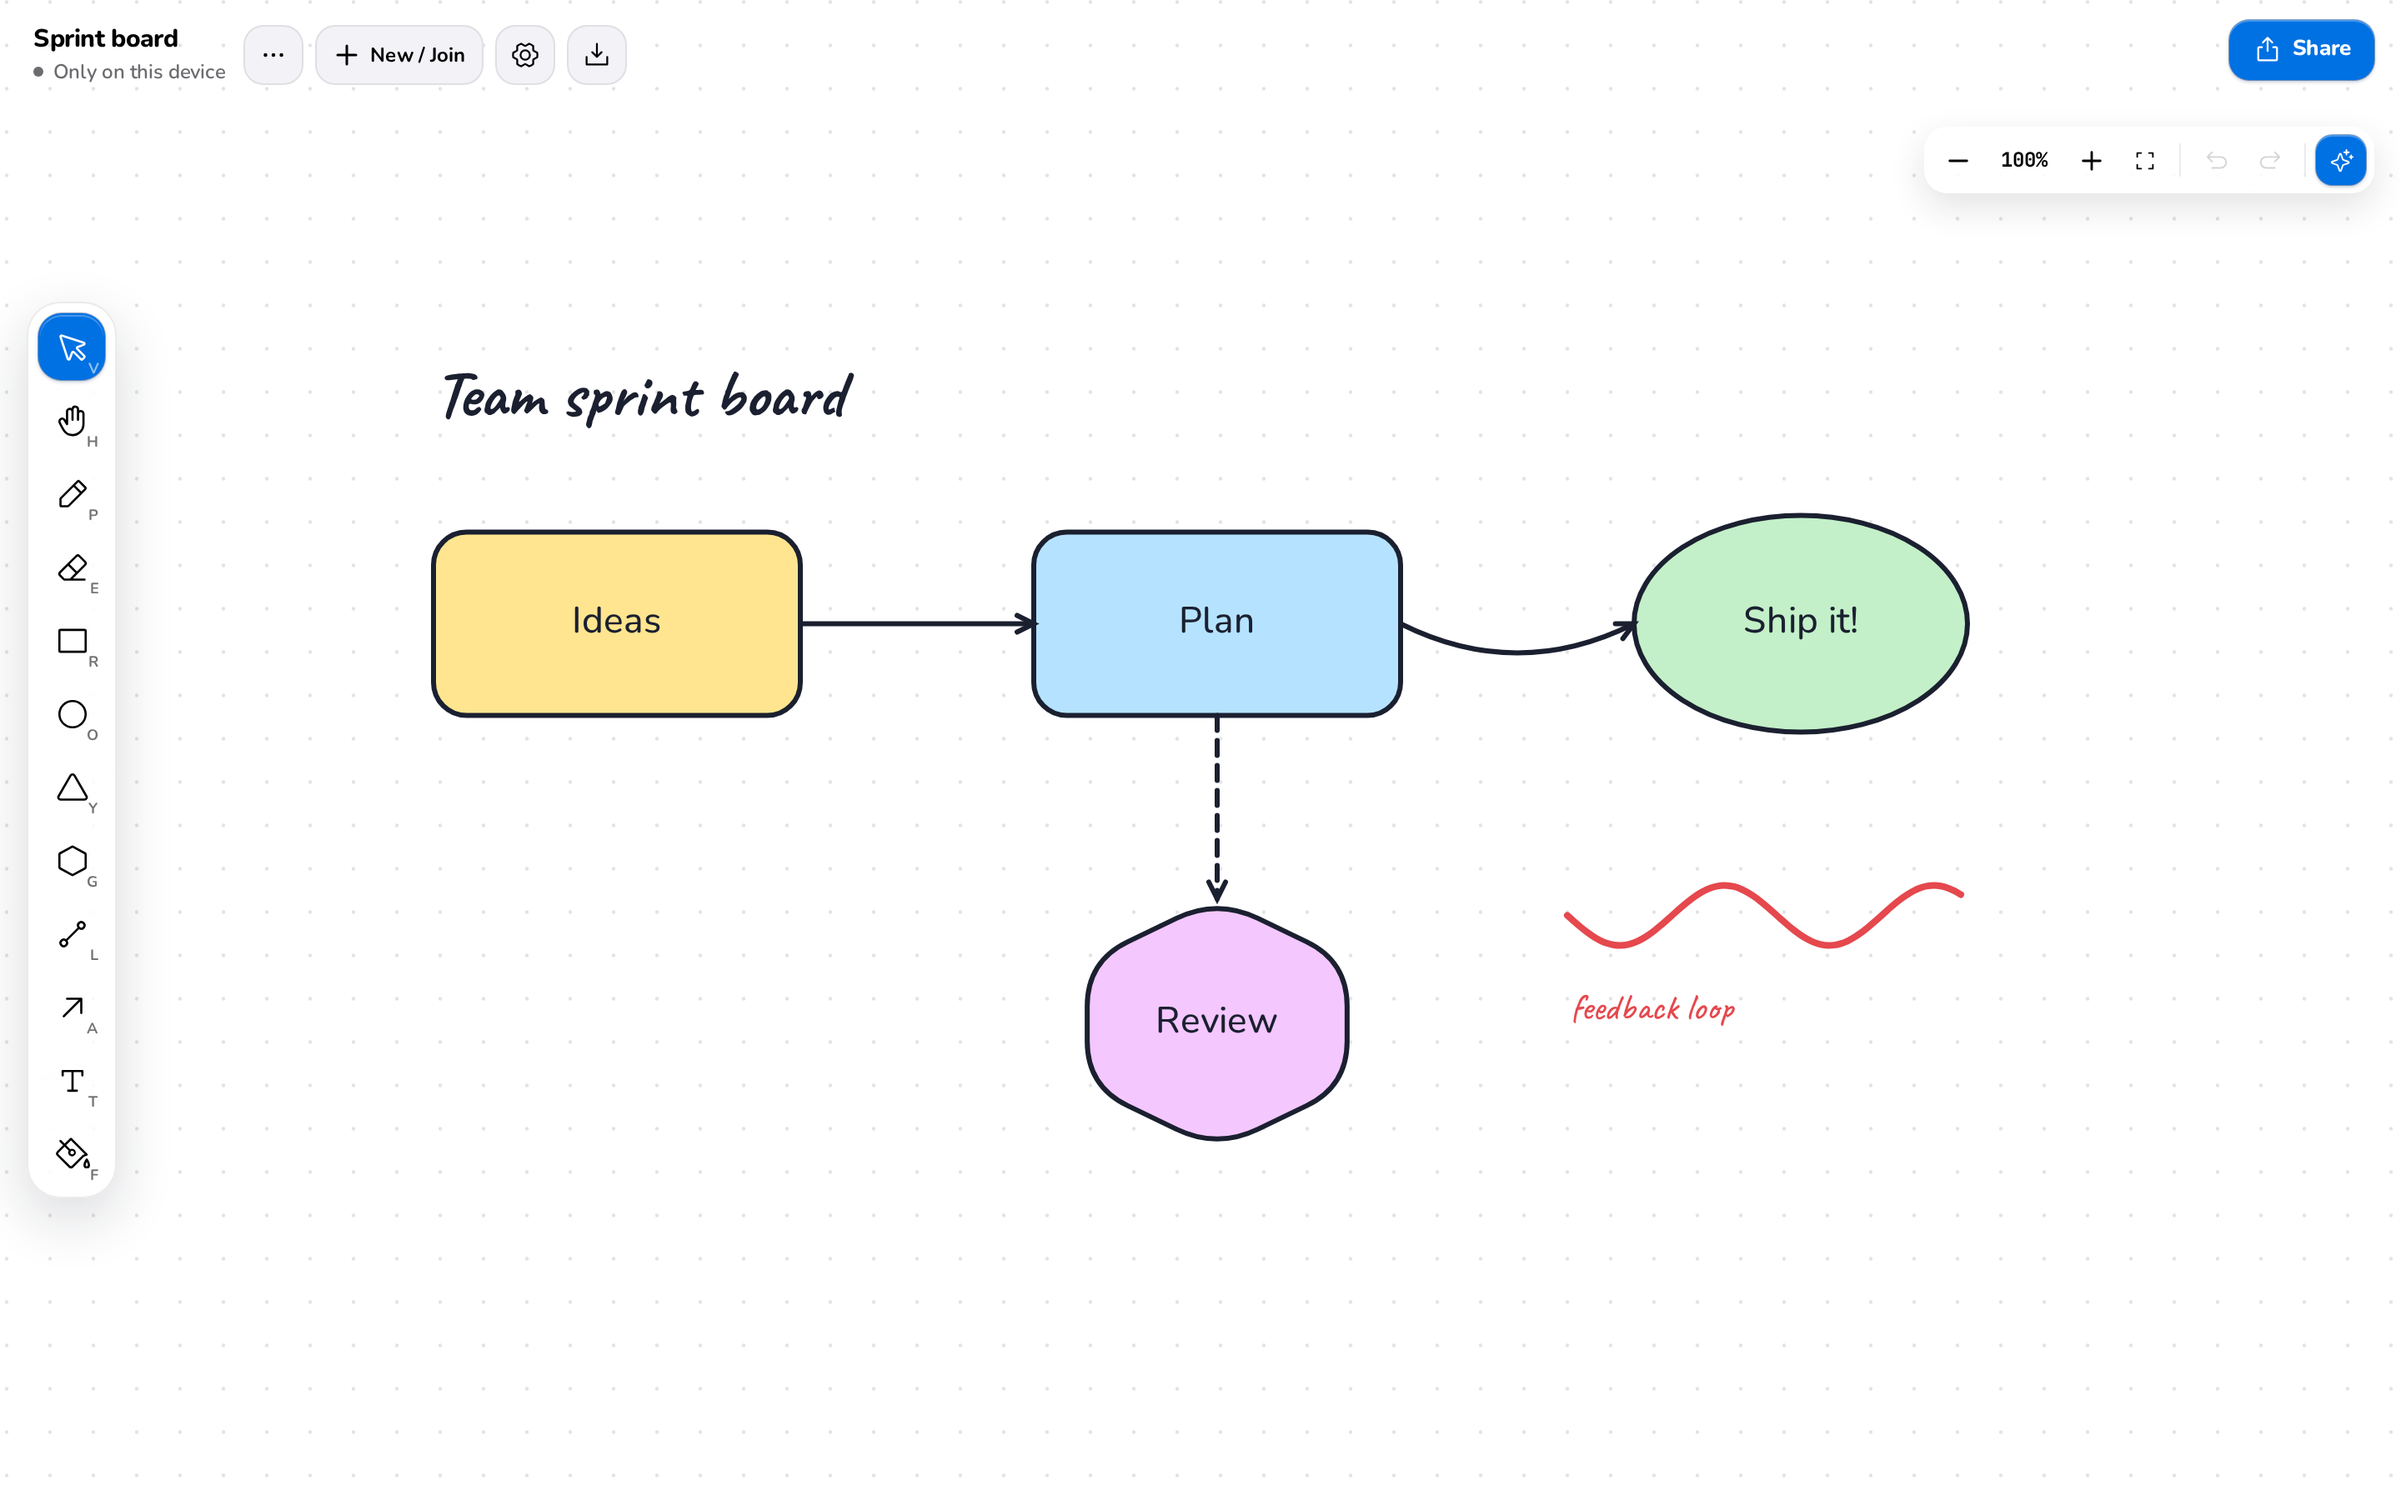
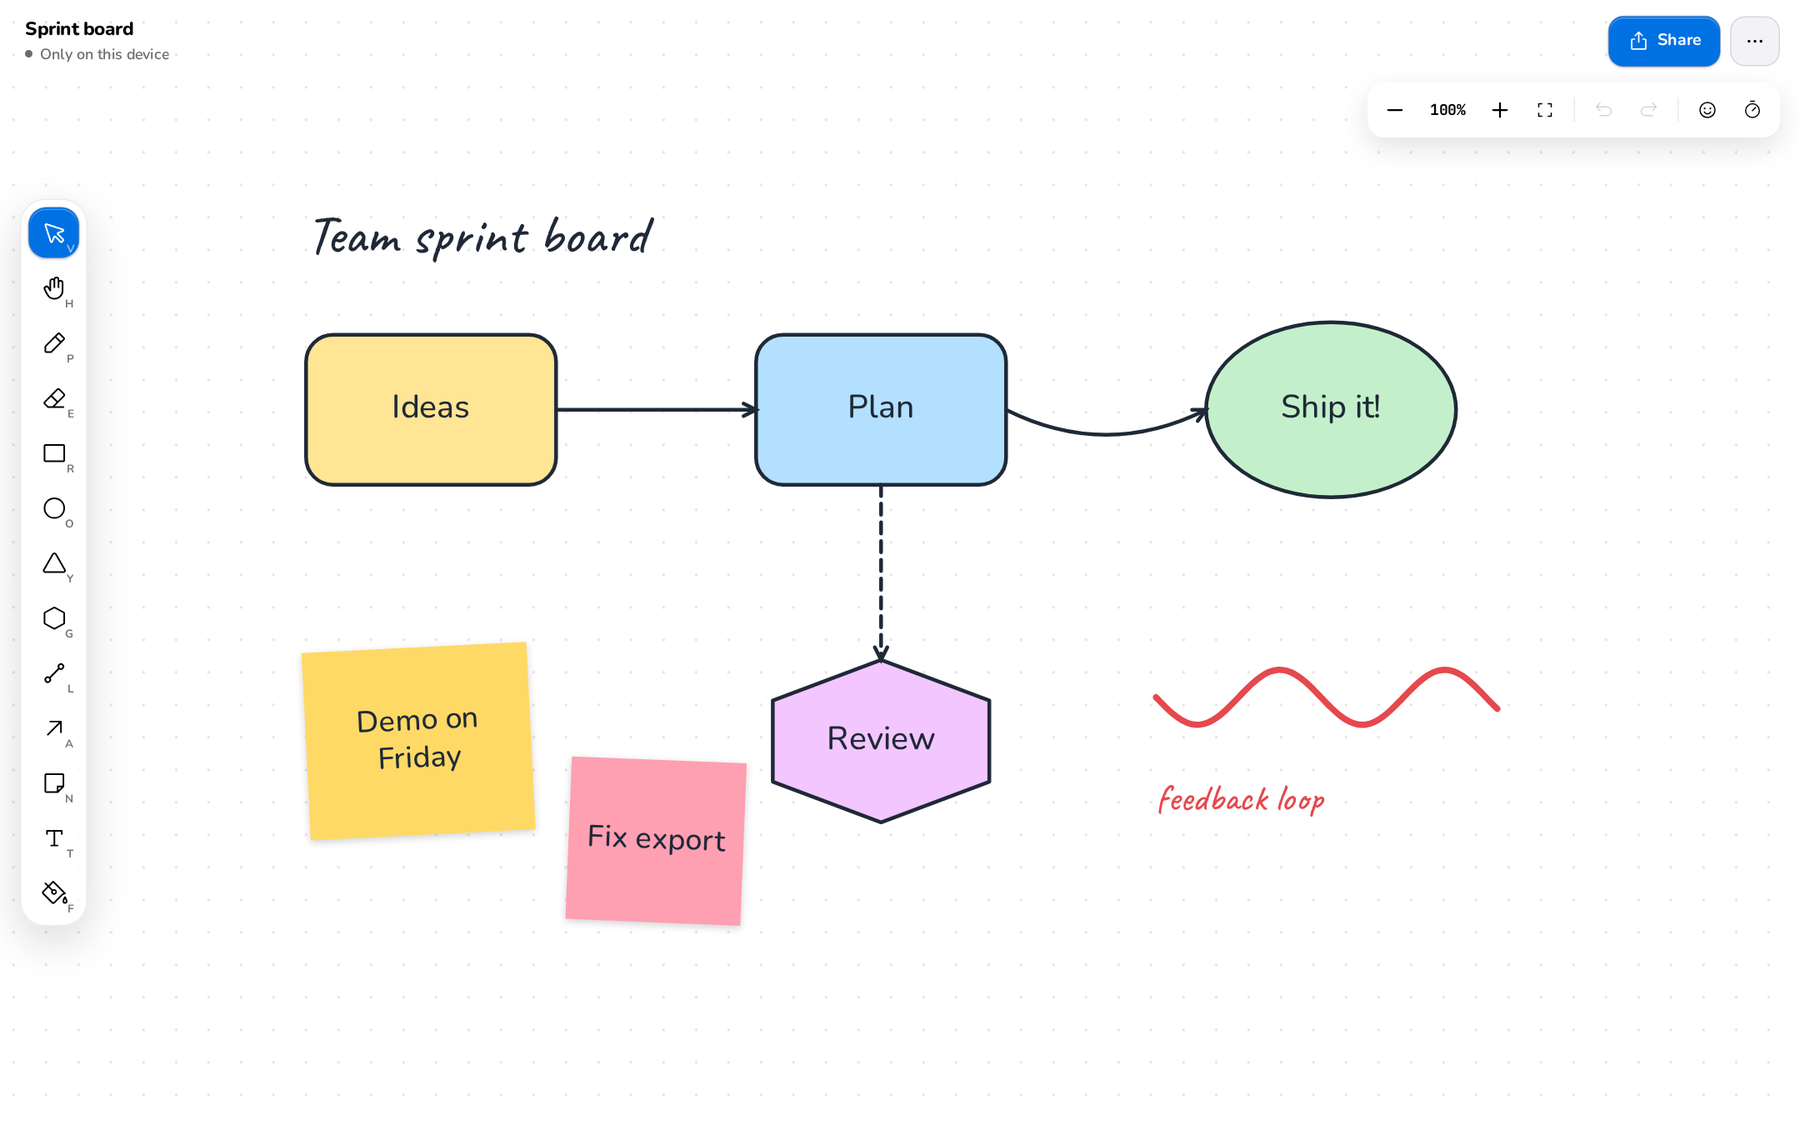
docs: README shows the phone and the browser looks; changelog

diff --git a/CHANGELOG.md b/CHANGELOG.md
@@ -7,6 +7,63 @@ All notable changes to the Shareboard web client. The format follows
 
 ## [Unreleased]
 
+### Added
+
+- Sticky notes (N): one tap, type, the words shrink to fit; six papers, and vote dots in your colour.
+- Highlighter and laser pointer, in the pencil's options.
+- Lock / Unlock in the right-click menu: a locked element can't be picked, moved or erased.
+- Templates in the menu: brainstorm, retro, flowchart, Kanban, mind map.
+- Reactions and a class timer in the top-right chip, seen by everyone on the board.
+  The timer also takes any time up to three hours (minutes and seconds).
+- Faster board: the drawing and dragging are painted on their own layer and off-screen elements are skipped (pen at 5,000 elements: 22 → 58 events/s).
+- Smoother pan and zoom on big boards: the dot grid is one repeating tile, and shapes, arrowheads and wrapped text are worked out once instead of on every frame. Rarely used sheets (Share, Export, Import, AI, Account) load when first opened.
+- Others see your stroke while you draw it and your shapes move while you
+  drag them, not only when you let go.
+- A live board keeps working when the connection drops: what you draw waits
+  and is sent when you're back online, and the banner says so.
+
+### Changed
+
+- Text fields are paper-white with a 3:1 edge, a focus ring and an error ring;
+  secondary buttons are tinted in the accent; placeholders meet 4.5:1.
+- Sign in and Create account are a switch at the top of the form; each field
+  shows its own error, and the button focuses the first problem.
+- The header is one row: board name (tap the status line for who is here),
+  Share and the menu. Settings, other boards, export, access, people and the
+  assistant are in the menu, in three labelled groups. The code stays in Share.
+- On a phone the camera chip drops − and + (zoom is a pinch) and keeps the zoom
+  readout, Fit, undo and redo; the assistant moved to the menu everywhere.
+- Header, chip, menu and sheet buttons have a 44px touch target.
+- A landscape phone gets the bottom toolbar instead of the side rail.
+- Esc closes only the topmost dialog; the context menu opens from the keyboard
+  (menu key or Shift+F10) and moves with the arrow keys.
+- Sheets close by dragging the handle or title down.
+- Zoom goes from 10 % to 2,000 % (was 25 %–600 %), so fit can show a big board
+  whole.
+- The board menu lists the keyboard shortcuts (on devices with a mouse).
+- The tutorial's card stands beside the toolbar instead of covering the
+  buttons around the one it points at.
+- The app opens straight on your board with the pencil in hand: no welcome
+  screens, no name, no account before the first stroke. Your name and icon are
+  asked the first time you share or join a live board, an account only when
+  you share.
+- The tutorial is offered, not forced: a small card on the empty board says
+  "Show me around" or "Not now"; it is still in Settings.
+- Other people's cursors glide instead of jumping, and a moving cursor no
+  longer repaints the board.
+
+### Fixed
+
+- A figure is picked only by its inside or its outline: a click in an ellipse's or a triangle's empty corner no longer selects it.
+- Firefox: the side toolbar no longer spills tools outside its panel on shorter windows, and the option menus no longer scroll sideways.
+- The rotate knob can be dragged again: the "Aa" label button now sits below
+  the selected figure and its knob instead of covering the knob.
+- Escape while typing a text or a label keeps what was typed (Ctrl+Z takes it
+  back), as in other whiteboards; it used to throw it away.
+- `?` opens a keyboard shortcut list instead of Settings.
+- The dead "Draw to shape" setting is gone; the tutorial and the guide now
+  teach hold to shape (hold the pencil still at the end of a stroke).
+
 ## [1.6.0-beta] - 2026-10-13
 
 ### Added

diff --git a/README.md b/README.md
@@ -17,7 +17,9 @@ anyone who has the code.
 
 <br />
 
-<img src="docs/assets/board-desktop.png" alt="A Shareboard board with figures connected by arrows" width="860" />
+<img src="docs/assets/board-phone.png" alt="Shareboard on Android: a mind map on the board, with the header, zoom and toolbar" width="260" />
+&nbsp;&nbsp;
+<img src="docs/assets/board-desktop.png" alt="Shareboard in the browser: a sprint board with shapes, arrows and sticky notes" width="640" />
 
 </div>
 
@@ -71,9 +73,9 @@ elbow, with 15 end styles including database crow's feet.
 </td>
 <td valign="top">
 
-**Draw to shape**
+**Hold to shape**
 
-Scribble a rough box, circle, triangle or arrow and it becomes a clean figure.
+Scribble a rough box, circle, triangle or arrow, hold still for a moment, and it becomes a clean figure.
 
 </td>
 </tr>
@@ -117,7 +119,7 @@ ready; it stays as your private copy.
 
 Also: undo and redo, copy and paste between boards, grouping, layers, rotation,
 four typefaces, rounded corners, dashed and dotted lines, a light and a dark
-board, Spanish and English, and a short tutorial for first-time users.
+board, Spanish and English, and an optional short tutorial.
 - **Keyboard shortcuts** for every tool and action, right-click menus, and
   drag-and-drop of files onto the page.
 
